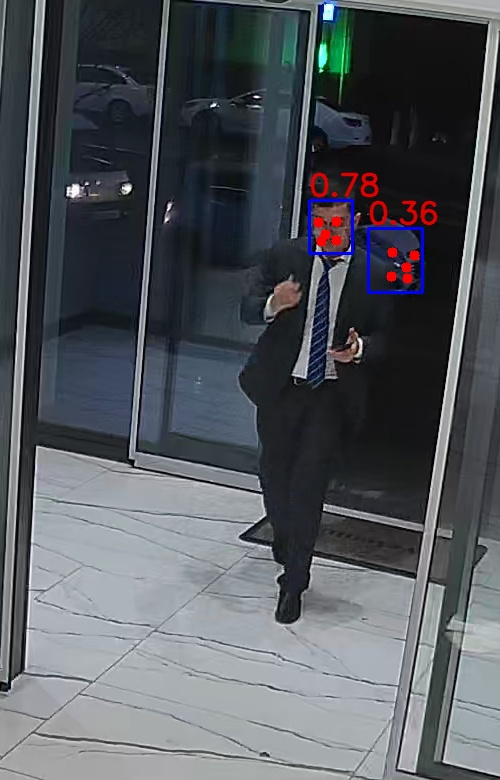
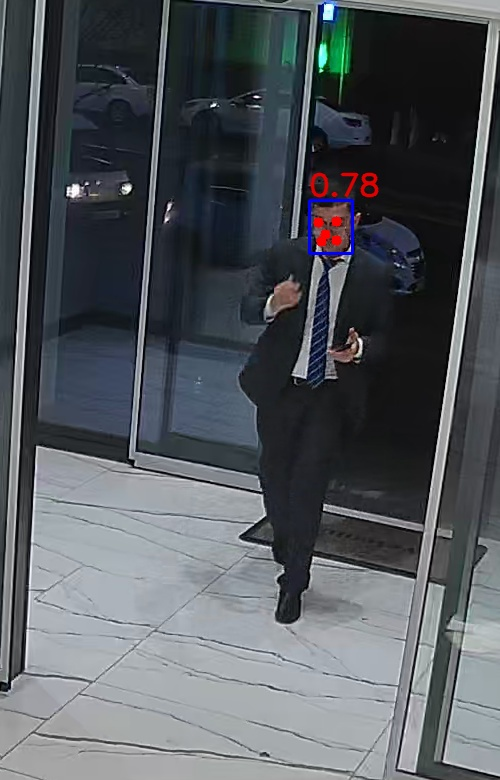
det_thresh=0.4 name_model=buffalo_sc

Changed region(s): [[0.72, 0.2462, 0.87, 0.4]]

diff --git a/docs/s3_dock.md b/docs/s3_dock.md
@@ -100,6 +100,32 @@ det_thresh=0.4
 
 | buffalo_l | buffalo_sc |
 |-----------|------------|
-|           |            |
-|           |            |
-|           |            |
+|           |   ![2022-11-03 14_12_58_det.jpg](..%2Fdata%2Fproblems%2F2022-11-03%2014_12_58_det.jpg)         |
+|           |   ![2022-11-03 14_14_53_det.jpg](..%2Fdata%2Fproblems%2F2022-11-03%2014_14_53_det.jpg)         |
+|           |   ![2022-11-03 14_22_14.jpg](..%2Fdata%2Fproblems%2F2022-11-03%2014_22_14.jpg)         |
+|           |   ![2022-11-03 16_56_34_det.jpg](..%2Fdata%2Fproblems%2F2022-11-03%2016_56_34_det.jpg)         |
+|           |   ![2022-11-03 17_40_22_det.jpg](..%2Fdata%2Fproblems%2F2022-11-03%2017_40_22_det.jpg)         |
+|           |   ![2022-11-04 11_02_14_det.jpg](..%2Fdata%2Fproblems%2F2022-11-04%2011_02_14_det.jpg)         |
+|           |   ![2022-11-04 11_12_54_det.jpg](..%2Fdata%2Fproblems%2F2022-11-04%2011_12_54_det.jpg)         |
+|           |   ![2022-11-04 11_13_09_det.jpg](..%2Fdata%2Fproblems%2F2022-11-04%2011_13_09_det.jpg)         |
+|           |   ![2022-11-04 11_13_54_det.jpg](..%2Fdata%2Fproblems%2F2022-11-04%2011_13_54_det.jpg)         |
+|           |   ![2022-11-04 11_17_40_det.jpg](..%2Fdata%2Fproblems%2F2022-11-04%2011_17_40_det.jpg)         |
+|           |   ![2022-11-04 11_28_43_det.jpg](..%2Fdata%2Fproblems%2F2022-11-04%2011_28_43_det.jpg)         |
+|           |   ![2022-11-04 11_39_33_det.jpg](..%2Fdata%2Fproblems%2F2022-11-04%2011_39_33_det.jpg)         |
+|           |   ![2022-11-04 13_06_04_det.jpg](..%2Fdata%2Fproblems%2F2022-11-04%2013_06_04_det.jpg)         |
+|           |   ![2022-11-04 14_41_07_det.jpg](..%2Fdata%2Fproblems%2F2022-11-04%2014_41_07_det.jpg)         |
+|           |   ![2022-11-04 15_10_07_det.jpg](..%2Fdata%2Fproblems%2F2022-11-04%2015_10_07_det.jpg)         |
+|           |   ![2022-11-04 16_00_18_det.jpg](..%2Fdata%2Fproblems%2F2022-11-04%2016_00_18_det.jpg)         |
+|           |   ![2022-11-04 16_24_11_det.jpg](..%2Fdata%2Fproblems%2F2022-11-04%2016_24_11_det.jpg)         |
+|           |   ![2022-11-04 17_56_18_det.jpg](..%2Fdata%2Fproblems%2F2022-11-04%2017_56_18_det.jpg)         |
+|           |   ![2022-11-04 18_57_00_det.jpg](..%2Fdata%2Fproblems%2F2022-11-04%2018_57_00_det.jpg)         |
+|           |   ![2022-11-04 19_05_03.jpg](..%2Fdata%2Fproblems%2F2022-11-04%2019_05_03.jpg)         |
+|           |   ![2022-11-04 20_07_23_det.jpg](..%2Fdata%2Fproblems%2F2022-11-04%2020_07_23_det.jpg)         |
+|           |   ![2022-11-04 20_38_06_det.jpg](..%2Fdata%2Fproblems%2F2022-11-04%2020_38_06_det.jpg)         |
+|           |   ![2022-11-07 14_09_42_det.jpg](..%2Fdata%2Fproblems%2F2022-11-07%2014_09_42_det.jpg)         |
+|           |   ![2022-11-07 14_16_15_det.jpg](..%2Fdata%2Fproblems%2F2022-11-07%2014_16_15_det.jpg)         |
+|           |   ![2022-11-07 14_49_17_det.jpg](..%2Fdata%2Fproblems%2F2022-11-07%2014_49_17_det.jpg)         |
+|           |   ![2022-11-07 14_49_20_det.jpg](..%2Fdata%2Fproblems%2F2022-11-07%2014_49_20_det.jpg)         |
+|           |   ![2022-11-07 15_39_46.jpg](..%2Fdata%2Fproblems%2F2022-11-07%2015_39_46.jpg)         |
+|           |   ![2022-11-07 16_35_59_det.jpg](..%2Fdata%2Fproblems%2F2022-11-07%2016_35_59_det.jpg)         |
+|           |   ![2022-11-07 16_41_46_det.jpg](..%2Fdata%2Fproblems%2F2022-11-07%2016_41_46_det.jpg)         |
